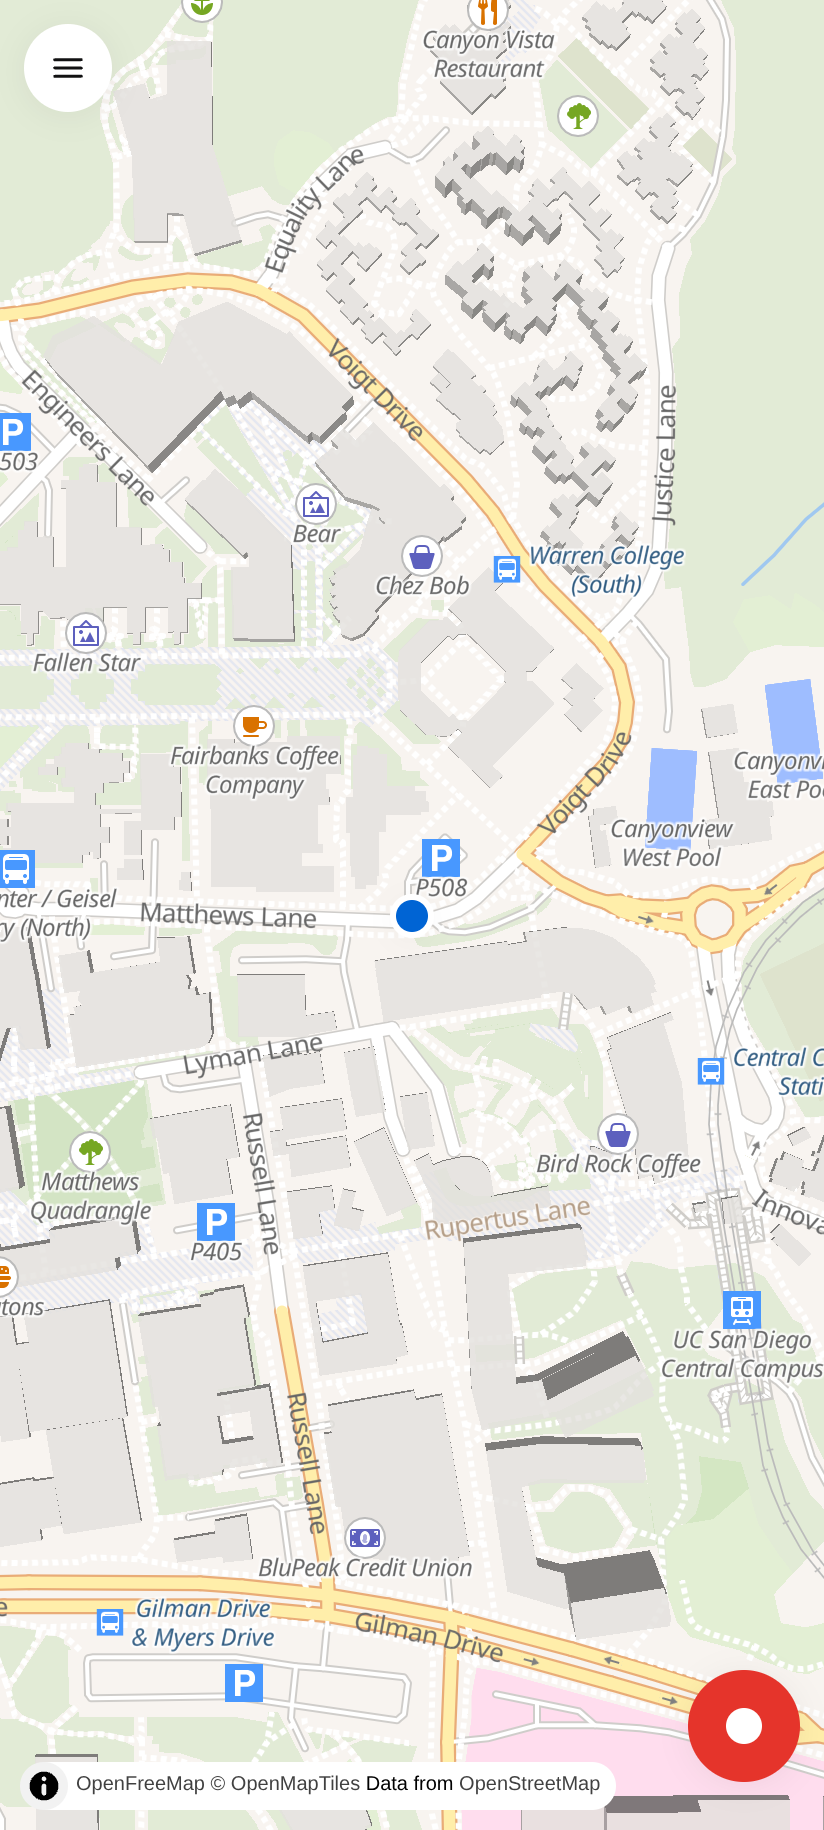
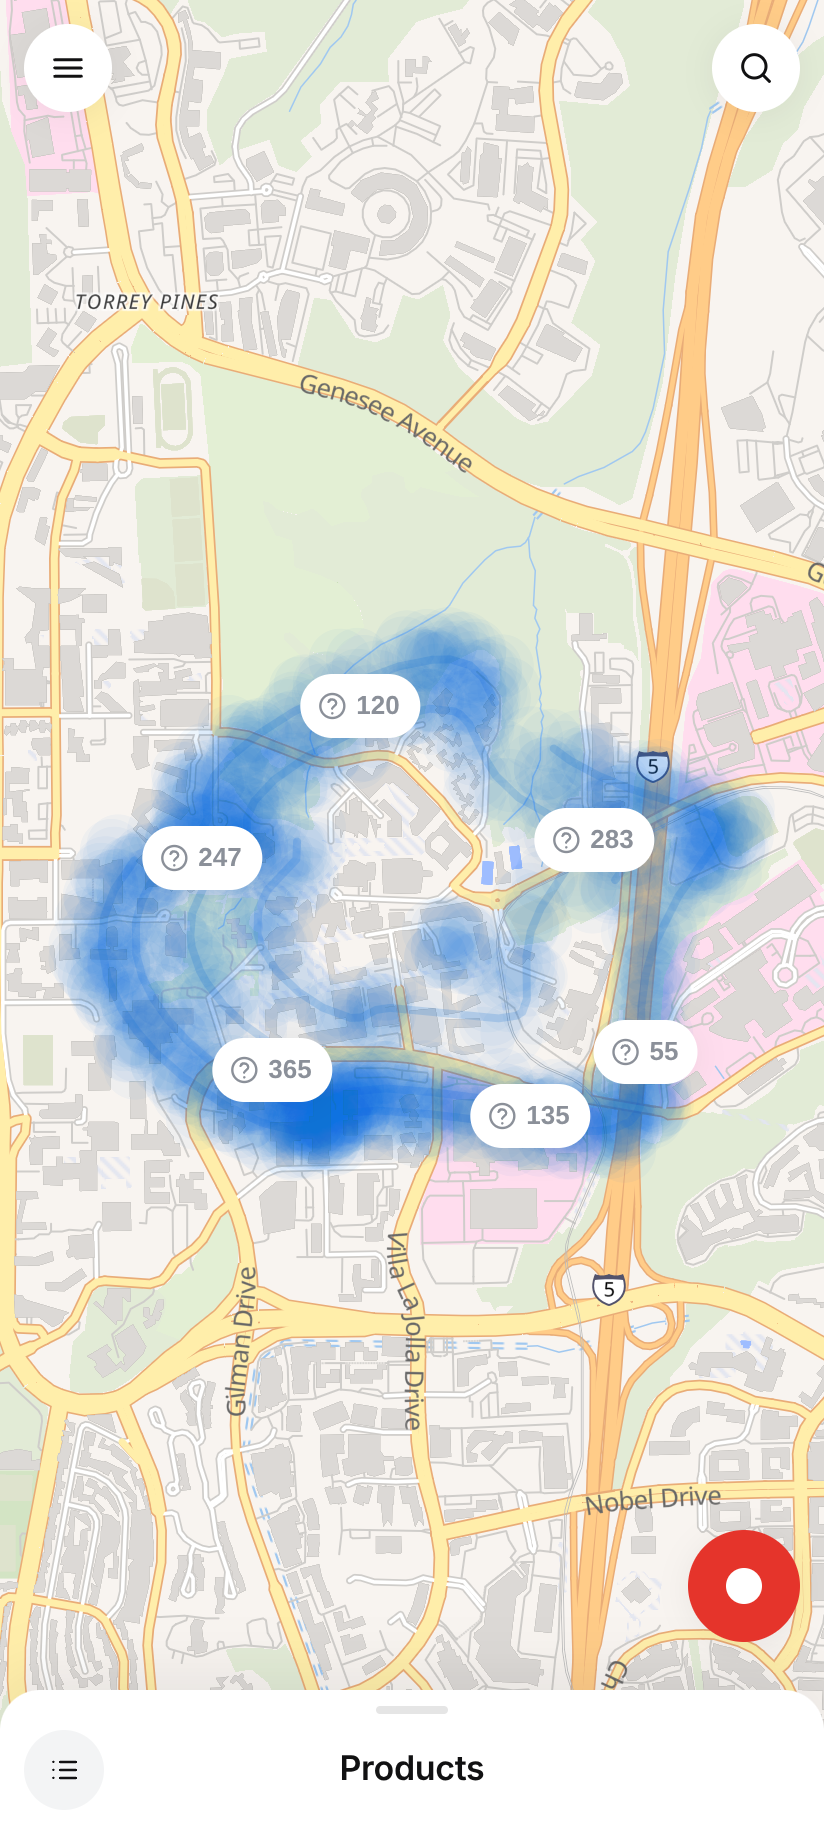
design/ui-v2: not recording opens on All sessions; first run (no recordings) shows only the location

diff --git a/cluetooth-android/design/ui-v2/app.js b/cluetooth-android/design/ui-v2/app.js
@@ -352,7 +352,7 @@
     const days = [...new Set(recs.map((r) => r.day))];
     $(".side", phone).innerHTML = UI.sidebar({
       current: cur && { id: cur.id, title: "Current session", sub: `Started ${cur.time} · ${cur.devices} devices` },
-      all: (() => { const v = D.getAllSessionsView(); return { sub: `${v.sessions} sessions · ${v.devices} devices` }; })(),
+      all: (() => { const v = D.getAllSessionsView(); return v.sessions ? { sub: `${v.sessions} sessions · ${v.devices} devices` } : null; })(),
       days: days.map((day) => ({ label: dayLabel(day), sessions: recs.filter((r) => r.day === day).map((r) => ({ id: r.id, title: r.time, sub: recSummary(r) })) })),
       selected: S.session,
     });
@@ -1012,7 +1012,8 @@
     "ob-auto": (el) => { S.obAuto = !S.obAuto; el.setAttribute("aria-checked", S.obAuto); },
     "ob-next": () => { S.ob++; renderOnboarding(); },
     "ob-back": () => { S.ob--; renderOnboarding(); },
-    "ob-done": () => { location.href = `${location.pathname}?state=${S.obAuto ? 2 : 1}`; },
+    // a new user has no recordings yet: first run, recording straight away if they chose to
+    "ob-done": () => { location.href = `${location.pathname}?state=${S.obAuto ? "2&first=1" : "first"}`; },
   };
 
   phone.addEventListener("click", (e) => {
@@ -1048,17 +1049,24 @@
     if (e.target.id === "top-q") { S.query = e.target.value; renderDiscover(); }
   });
 
-  /** Launch. ?state=1..4 jumps to a demo state; without it, "Record when the app opens" decides between 1 and 2. */
+  /** Launch. Recording when "Record when the app opens" is on; otherwise All sessions, or only the location for a
+   *  brand-new user. Demo states: ?state=1 (All sessions), 2 (recording), 3 (after Stop), 4 (a history session),
+   *  first (first run, no recordings ever); 5 is the old name of 1. */
   function boot() {
     renderMain();
     updateChrome();
     S.map = createMainMap($("#main-map"));
-    const state = +new URLSearchParams(location.search).get("state") || (S.settings.autoRecord ? 2 : 1);
+    const q = new URLSearchParams(location.search).get("state");
+    if (q === "first" || new URLSearchParams(location.search).get("first")) D.useFirstRunDemo();
+    const state = q === "first" ? 1 : +q || (S.settings.autoRecord ? 2 : 1);
     if (state === 2 || state === 3) startRecording();
     if (state === 3) stopRecording();
     if (state === 4) showSession("r1", false);
-    if (state === 5) showSession("all", false);
-    if (state === 1) showSession(null, false);
+    if (state === 1 || state === 5) showDefault();
+  }
+  /** Not recording: All sessions, or nothing but the location when there are no recordings at all. */
+  function showDefault() {
+    showSession(D.getAllSessionsView().sessions ? "all" : null, false);
   }
 
   // ---- Gallery (#gallery): every component in each state, built from the same UI functions ----
@@ -1077,13 +1085,13 @@
       <h1>Cluetooth UI v2 components</h1>
       <p>Each component in each state, rendered by the same functions as the app. <a href="./">Open the app</a></p>
 
-      ${sect("Demo states", "?state=1..5 · #onboarding")}
+      ${sect("Demo states", "?state=1..4, ?state=first · #onboarding")}
       <div class="g-row g-links">
-        <a href="./?state=1">1 · Just opened, not recording</a>
+        <a href="./?state=1">1 · Opened, not recording: All sessions</a>
         <a href="./?state=2">2 · Recording</a>
         <a href="./?state=3">3 · After Stop (frozen)</a>
         <a href="./?state=4">4 · History session</a>
-        <a href="./?state=5">5 · All sessions</a>
+        <a href="./?state=first">First run (no recordings yet)</a>
         <a href="./#onboarding">Onboarding</a>
       </div>
 

diff --git a/cluetooth-android/design/ui-v2/data.js b/cluetooth-android/design/ui-v2/data.js
@@ -253,11 +253,12 @@
   DEVICES.filter((d) => d.name === "JBL Flip 6").forEach((d) => (gattRead[d.addr] = { ok: true, steps: gattSteps(GATT.services), services: GATT.services }));
 
   // ---- sessions: the stored recordings plus the ones recorded in this run ----
-  let current = null, runs = 0;
+  let current = null, runs = 0, firstRun = false; // firstRun: the demo of a brand-new user, no stored recordings
   const finished = [];
+  const stored = () => (firstRun ? [] : RECORDINGS.filter((r) => !r.current));
   /** The union of all local data: every session's devices (each at its strongest point) and every route. */
   function allSessions() {
-    const all = [...(current ? [current] : []), ...finished, ...RECORDINGS.filter((r) => !r.current && r.devices > 0)];
+    const all = [...(current ? [current] : []), ...finished, ...stored().filter((r) => r.devices > 0)];
     const best = {};
     for (const r of all) for (const p of r.points) if (!best[p.addr] || p.rssi > best[p.addr].rssi) best[p.addr] = p;
     const points = Object.values(best);
@@ -303,7 +304,9 @@
     /** The user's current location. */
     getMyLocation: () => ({ at: [CENTER.lon + 0.0004, CENTER.lat + 0.00012], lat: 32.88012, lon: -117.23421, accuracy: 8 }),
     /** All finished sessions, newest first: this run's recordings, then the stored ones (including ones without data). */
-    getRecordings: () => [...finished, ...RECORDINGS.filter((r) => !r.current)].map(({ points, ...r }) => clone(r)),
+    getRecordings: () => [...finished, ...stored()].map(({ points, ...r }) => clone(r)),
+    /** Demo only: behave like a brand-new install with no recordings. */
+    useFirstRunDemo: () => { firstRun = true; },
     /** The session being recorded, or null. */
     getCurrentRecording: () => (current ? clone(current) : null),
     /** One session with its route and one strongest point per device. */
